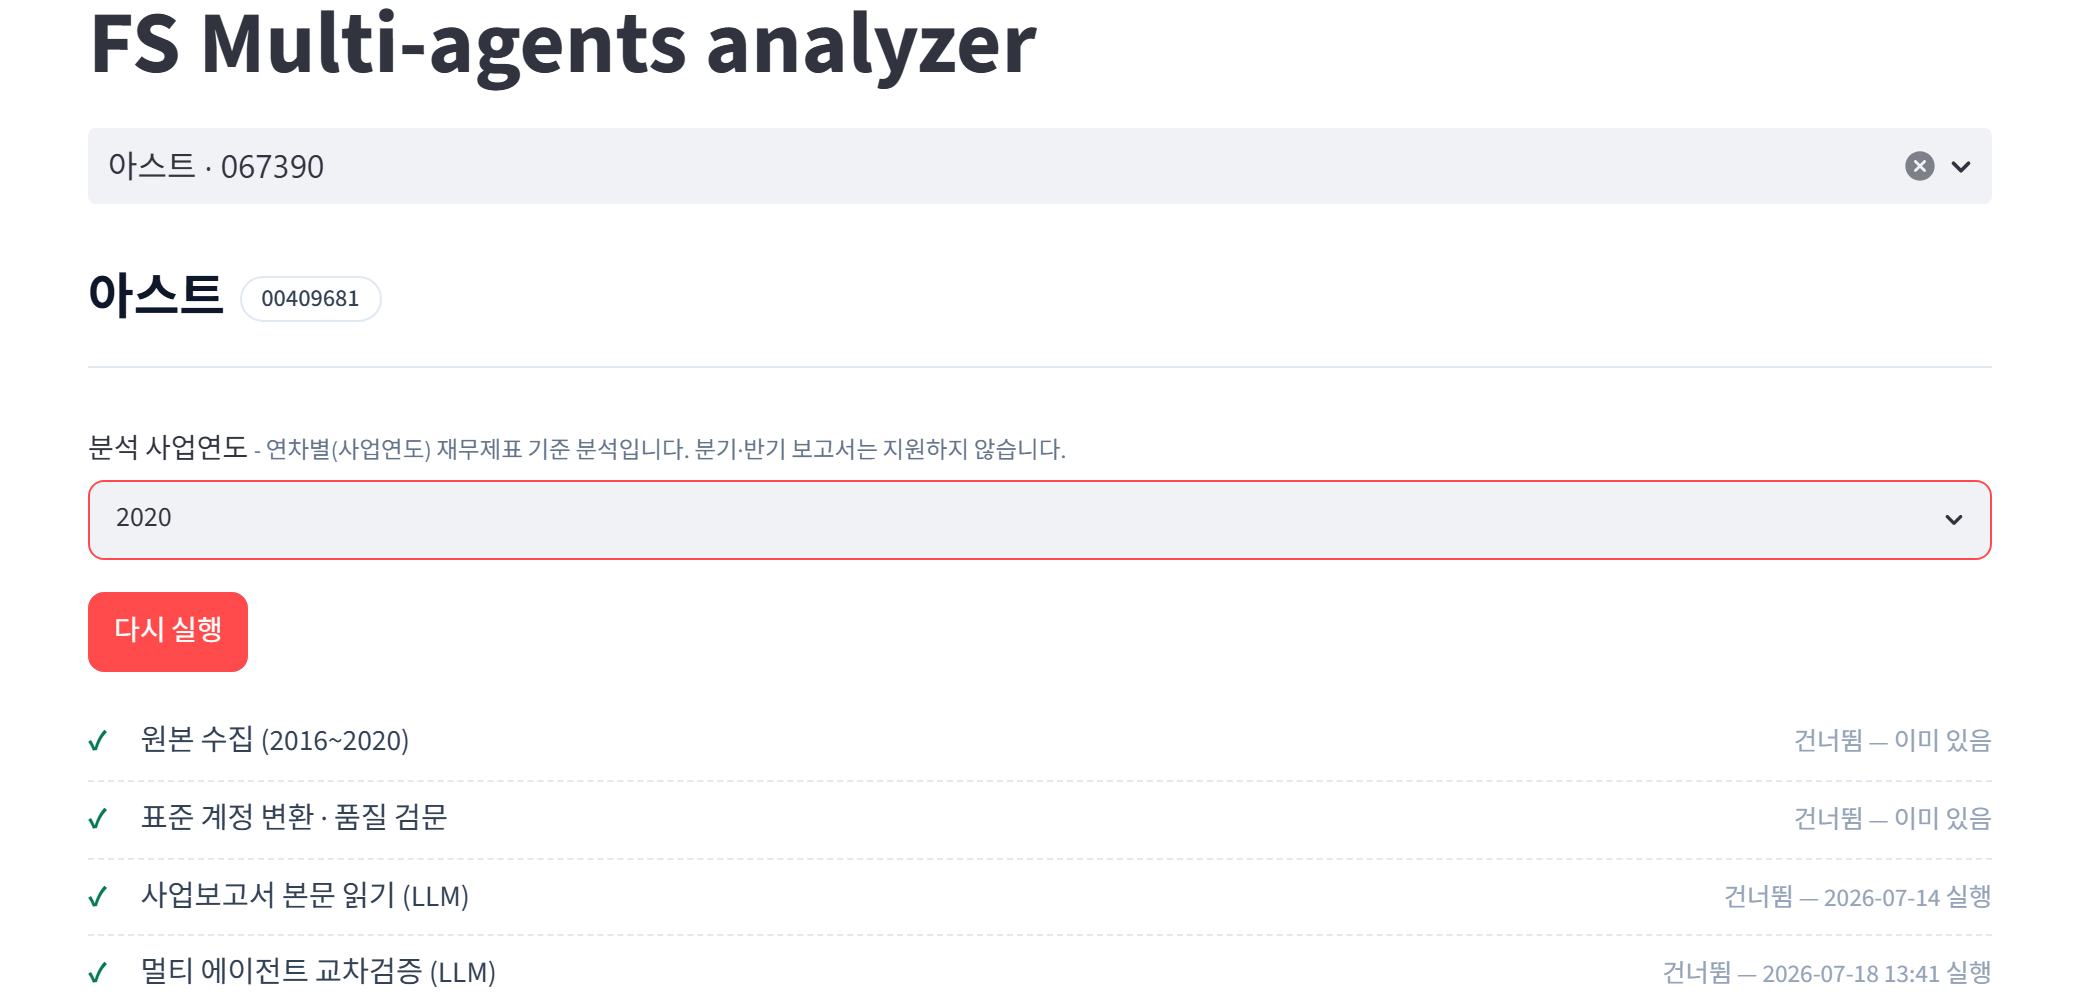
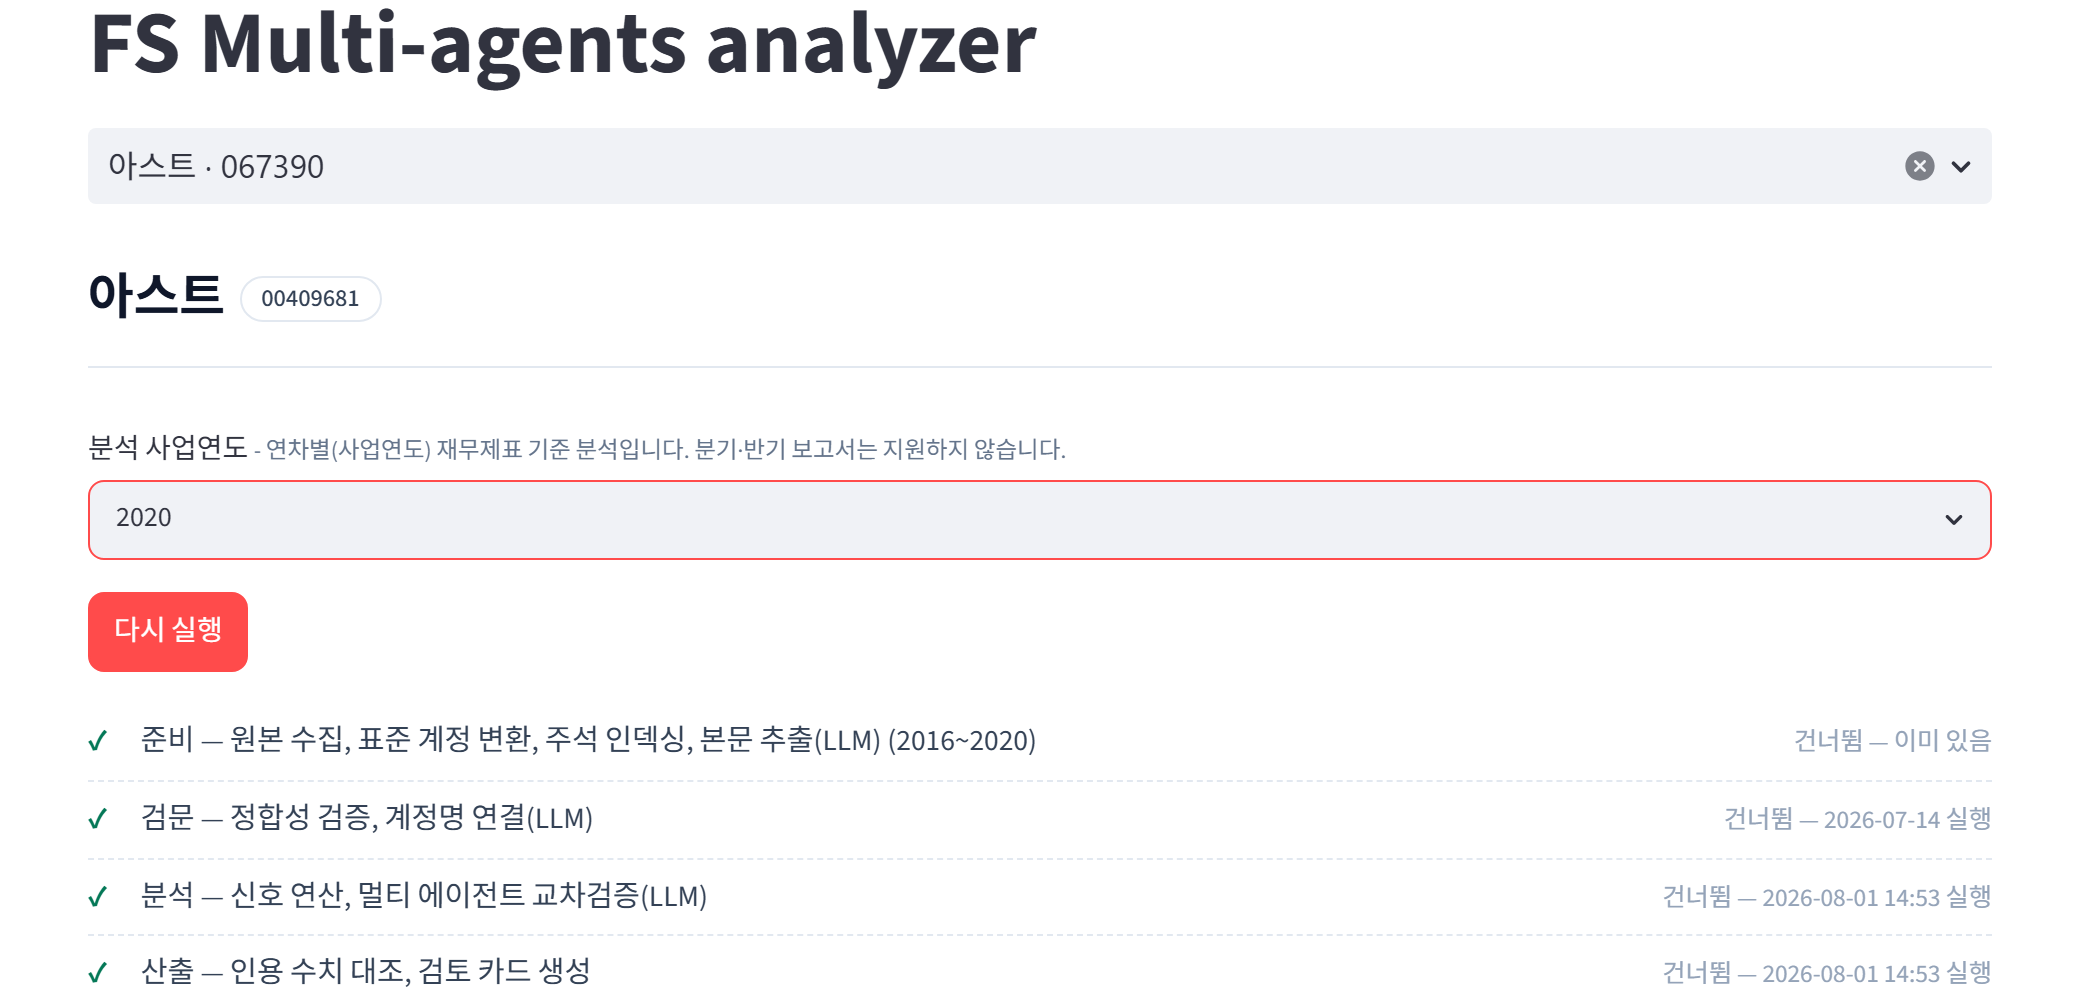
feat(ui): 분석 실행 진행 표시를 준비·검문·분석·산출 4국면으로 재편
화면 단계명(원본 수집, 표준 계정 변환·품질 검문, 사업보고서 본문 읽기,
멀티 에이전트 교차검증)이 README 파이프라인 도식과 다른 말을 써서, 화면을 보고
문서를 찾을 수 없었다. 도식의 4국면 어휘로 통일한다.

- 키 교체 : COLLECT/NORMALIZE/READ/CROSS → PREPARE/INSPECT/ANALYZE/OUTPUT
- 준비 : 수집과 정규화를 한 줄로 합침(prepare_company 한 호출이 둘을 함께 수행)
  → not missing_years and prepared 둘 다 만족해야 건너뜀
- 산출 : 분석과 같은 마커(cards_at)를 봄 — build_suspicion_cards가 둘을 함께 끝냄
- 본문 추출을 검문에서 준비로 옮기는 작업을 선반영해 라벨에 반영
- 스크린샷 ui-flow-2-prepare.png 재촬영(아스트 2020, 2080x995 동일 규격)

테스트 : 686 passed

diff --git a/dashboard/steps.py b/dashboard/steps.py
@@ -1,24 +1,25 @@
-"""분석 실행 4단계의 상태 계산 + HTML — Streamlit 런타임 없이 테스트 가능한 순수 함수.
+"""분석 실행 4국면의 상태 계산 + HTML — Streamlit 런타임 없이 테스트 가능한 순수 함수.
 
-사용자는 [분석 실행] 하나만 누른다. 수집·정규화·본문읽기·교차검증은 버튼이 아니라
-진행 표시이며, 이미 끝난 단계는 마커를 보고 건너뛴다(마커 판정은 src/report/prep.py).
+사용자는 [분석 실행] 하나만 누른다. 준비·검문·분석·산출은 버튼이 아니라 진행 표시이며,
+이미 끝난 국면은 마커를 보고 건너뛴다(마커 판정은 src/report/prep.py).
+국면 이름은 README 파이프라인 도식과 같은 말을 쓴다.
 """
 
 from __future__ import annotations
 
 import html
 
-COLLECT = "collect"
-NORMALIZE = "normalize"
-READ = "read"
-CROSS = "cross"
+PREPARE = "prepare"
+INSPECT = "inspect"
+ANALYZE = "analyze"
+OUTPUT = "output"
 
-STEP_ORDER = (COLLECT, NORMALIZE, READ, CROSS)
+STEP_ORDER = (PREPARE, INSPECT, ANALYZE, OUTPUT)
 STEP_LABELS = {
-    COLLECT: "원본 수집",
-    NORMALIZE: "표준 계정 변환 · 품질 검문",
-    READ: "사업보고서 본문 읽기 (LLM)",
-    CROSS: "멀티 에이전트 교차검증 (LLM)",
+    PREPARE: "준비 — 원본 수집, 표준 계정 변환, 주석 인덱싱, 본문 추출(LLM)",
+    INSPECT: "검문 — 정합성 검증, 계정명 연결(LLM)",
+    ANALYZE: "분석 — 신호 연산, 멀티 에이전트 교차검증(LLM)",
+    OUTPUT: "산출 — 인용 수치 대조, 검토 카드 생성",
 }
 SKIP = "건너뜀 — 이미 있음"
 
@@ -30,36 +31,44 @@ def build_steps(
     onboarded_at: str | None,
     cards_at: str | None,
 ) -> list[dict]:
-    """4단계의 done 여부와 부가 설명. 실행 전·실행 후 화면이 같은 목록을 쓴다.
+    """4국면의 done 여부와 부가 설명. 실행 전·실행 후 화면이 같은 목록을 쓴다.
 
-    normalize는 마커가 없으면 window 전체를 다시 변환한다(연도별 부분 건너뛰기 없음,
+    준비는 마커가 없으면 window 전체를 다시 변환한다(연도별 부분 건너뛰기 없음,
     prep.prepare_company). 그래서 남은 작업량을 '5개년 전체'로 밝혀 적는다.
+    분석과 산출은 한 호출(build_suspicion_cards)이 함께 끝내므로 같은 마커를 본다.
     """
 
     span = f"{window[0]}~{window[-1]}" if window else ""
     need = ", ".join(str(y) for y in missing_years)
+    prepare_done = not missing_years and prepared
+    if prepare_done:
+        prepare_meta = SKIP
+    elif missing_years:
+        prepare_meta = f"없는 연도 {need}"
+    else:
+        prepare_meta = f"{len(window)}개년 전체"
     return [
         {
-            "key": COLLECT,
-            "label": f"{STEP_LABELS[COLLECT]} ({span})" if span else STEP_LABELS[COLLECT],
-            "done": not missing_years,
-            "meta": SKIP if not missing_years else f"없는 연도 {need}",
+            "key": PREPARE,
+            "label": f"{STEP_LABELS[PREPARE]} ({span})" if span else STEP_LABELS[PREPARE],
+            "done": prepare_done,
+            "meta": prepare_meta,
         },
         {
-            "key": NORMALIZE,
-            "label": STEP_LABELS[NORMALIZE],
-            "done": prepared,
-            "meta": SKIP if prepared else f"{len(window)}개년 전체",
-        },
-        {
-            "key": READ,
-            "label": STEP_LABELS[READ],
+            "key": INSPECT,
+            "label": STEP_LABELS[INSPECT],
             "done": bool(onboarded_at),
             "meta": f"건너뜀 — {onboarded_at} 실행" if onboarded_at else "",
         },
         {
-            "key": CROSS,
-            "label": STEP_LABELS[CROSS],
+            "key": ANALYZE,
+            "label": STEP_LABELS[ANALYZE],
+            "done": bool(cards_at),
+            "meta": f"건너뜀 — {cards_at} 실행" if cards_at else "",
+        },
+        {
+            "key": OUTPUT,
+            "label": STEP_LABELS[OUTPUT],
             "done": bool(cards_at),
             "meta": f"건너뜀 — {cards_at} 실행" if cards_at else "",
         },
@@ -67,7 +76,7 @@ def build_steps(
 
 
 def all_done(steps: list[dict]) -> bool:
-    """네 단계가 모두 끝났는지 — 버튼 라벨을 '분석 실행'/'다시 실행'으로 가른다."""
+    """네 국면이 모두 끝났는지 — 버튼 라벨을 '분석 실행'/'다시 실행'으로 가른다."""
 
     return all(s["done"] for s in steps)
 

diff --git a/dashboard/report_view.py b/dashboard/report_view.py
@@ -19,7 +19,7 @@ from dashboard.report_html import (
     render_ratio_html,
     render_selection_html,
 )
-from dashboard.steps import COLLECT, CROSS, NORMALIZE, READ, all_done, build_steps
+from dashboard.steps import ANALYZE, INSPECT, OUTPUT, PREPARE, all_done, build_steps
 from dashboard.steps import render_steps_html as _steps_html
 from dashboard.style import busy, inject_css
 
@@ -57,7 +57,7 @@ def analysis_window(target: int, span: int = 5) -> list[int]:
 
 
 def _step_context(corp_code: str, year: int, window: list[int], key: str) -> list[dict]:
-    """4단계 상태 — 마커·raw 유무·저장 카드를 읽어 진행 표시용 목록을 만든다.
+    """4국면 상태 — 마커·raw 유무·저장 카드를 읽어 진행 표시용 목록을 만든다.
 
     phase1 결정론 지표(검토큐·비율)는 UI에 표시하지 않는다(내부 중간산출물).
     교차검증 = 내부에서 phase1 계산 후 phase2 카드 생성.
@@ -252,11 +252,11 @@ def _do_read(corp_code: str, year: int, key: str, steps: list[dict]) -> bool:
         elapsed = int(time.perf_counter() - started)
         board.html(
             _steps_html(
-                steps, running=READ, running_meta=f"{p['done']}/{p['total']} 파트 · 경과 {elapsed}s"
+                steps, running=INSPECT, running_meta=f"{p['done']}/{p['total']} 파트 · 경과 {elapsed}s"
             )
         )
 
-    board.html(_steps_html(steps, running=READ, running_meta="시작"))
+    board.html(_steps_html(steps, running=INSPECT, running_meta="시작"))
     with busy(f"{year} 사업보고서 본문 읽는 중 (수 분 소요)..."):
         result = run_full_onboarding(corp_code, str(year), on_progress=_on_progress)
     board.empty()
@@ -274,21 +274,21 @@ def _do_read(corp_code: str, year: int, key: str, steps: list[dict]) -> bool:
 
 
 def _run_all(corp_code: str, corp_name: str, year: int, window: list[int], key: str) -> None:
-    """[분석 실행] — 안 끝난 단계만 순서대로 실행하고, 하나라도 실패하면 거기서 멈춘다."""
+    """[분석 실행] — 안 끝난 국면만 순서대로 실행하고, 하나라도 실패하면 거기서 멈춘다."""
 
     steps = _step_context(corp_code, year, window, key)
     done = {s["key"]: s["done"] for s in steps}
     board = st.empty()
 
-    if not (done[COLLECT] and done[NORMALIZE]):
-        board.html(_steps_html(steps, running=NORMALIZE, running_meta="진행 중"))
+    if not done[PREPARE]:
+        board.html(_steps_html(steps, running=PREPARE, running_meta="진행 중"))
         if not _do_prepare(corp_code, corp_name, year, window):
             return
-    if not done[READ]:
+    if not done[INSPECT]:
         board.empty()
         if not _do_read(corp_code, year, key, steps):
             return
-    board.html(_steps_html(steps, running=CROSS, running_meta="진행 중"))
+    board.html(_steps_html(steps, running=ANALYZE, running_meta="진행 중"))
     _run_analysis(corp_code, corp_name, year, window, key)
     board.empty()
     st.rerun()

diff --git a/tests/test_prep.py b/tests/test_prep.py
@@ -5,7 +5,7 @@ from __future__ import annotations
 from pathlib import Path
 
 from dashboard.report_view import analysis_window, window_for_year
-from dashboard.steps import COLLECT, CROSS, NORMALIZE, READ, all_done, build_steps
+from dashboard.steps import ANALYZE, INSPECT, OUTPUT, PREPARE, all_done, build_steps
 from src.report.prep import (
     company_state,
     onboarding_done,
@@ -109,25 +109,35 @@ def _steps(**over):
 
 def test_steps_fresh_year_nothing_done():
     s = _steps(missing_years=[2016, 2017])
-    assert [s[k]["done"] for k in (COLLECT, NORMALIZE, READ, CROSS)] == [False] * 4
-    assert "2016, 2017" in s[COLLECT]["meta"]
+    assert [s[k]["done"] for k in (PREPARE, INSPECT, ANALYZE, OUTPUT)] == [False] * 4
+    assert "2016, 2017" in s[PREPARE]["meta"]
 
 
-def test_steps_collect_skipped_when_raw_present():
-    s = _steps()
-    assert s[COLLECT]["done"] is True and s[COLLECT]["meta"] == "건너뜀 — 이미 있음"
+def test_steps_prepare_done_only_when_raw_and_marker_both_ready():
+    """준비는 수집과 표준 계정 변환을 함께 안는다 — 둘 다 끝나야 건너뛴다."""
+
+    assert _steps(prepared=True)[PREPARE]["done"] is True
+    assert _steps(prepared=True)[PREPARE]["meta"] == "건너뜀 — 이미 있음"
+    assert _steps(missing_years=[2016])[PREPARE]["done"] is False
 
 
-def test_steps_normalize_reports_full_window_when_unprepared():
+def test_steps_prepare_reports_full_window_when_unprepared():
     """마커가 없으면 window 전체를 다시 변환한다(연도별 부분 건너뛰기 없음) — 그대로 적는다."""
 
-    assert _steps()[NORMALIZE]["meta"] == "5개년 전체"
+    assert _steps()[PREPARE]["meta"] == "5개년 전체"
 
 
 def test_steps_llm_stages_show_when_they_ran():
     s = _steps(prepared=True, onboarded_at="2026-07-18", cards_at="2026-07-18 13:41")
-    assert s[READ]["done"] is True and "2026-07-18" in s[READ]["meta"]
-    assert s[CROSS]["done"] is True and "13:41" in s[CROSS]["meta"]
+    assert s[INSPECT]["done"] is True and "2026-07-18" in s[INSPECT]["meta"]
+    assert s[ANALYZE]["done"] is True and "13:41" in s[ANALYZE]["meta"]
+
+
+def test_steps_output_shares_marker_with_analyze():
+    """분석과 산출은 한 호출이 함께 끝낸다 — 같은 마커를 본다."""
+
+    s = _steps(prepared=True, onboarded_at="2026-07-18", cards_at="2026-07-18 13:41")
+    assert s[OUTPUT]["done"] == s[ANALYZE]["done"]
 
 
 def test_all_done_only_when_four_stages_finished():
